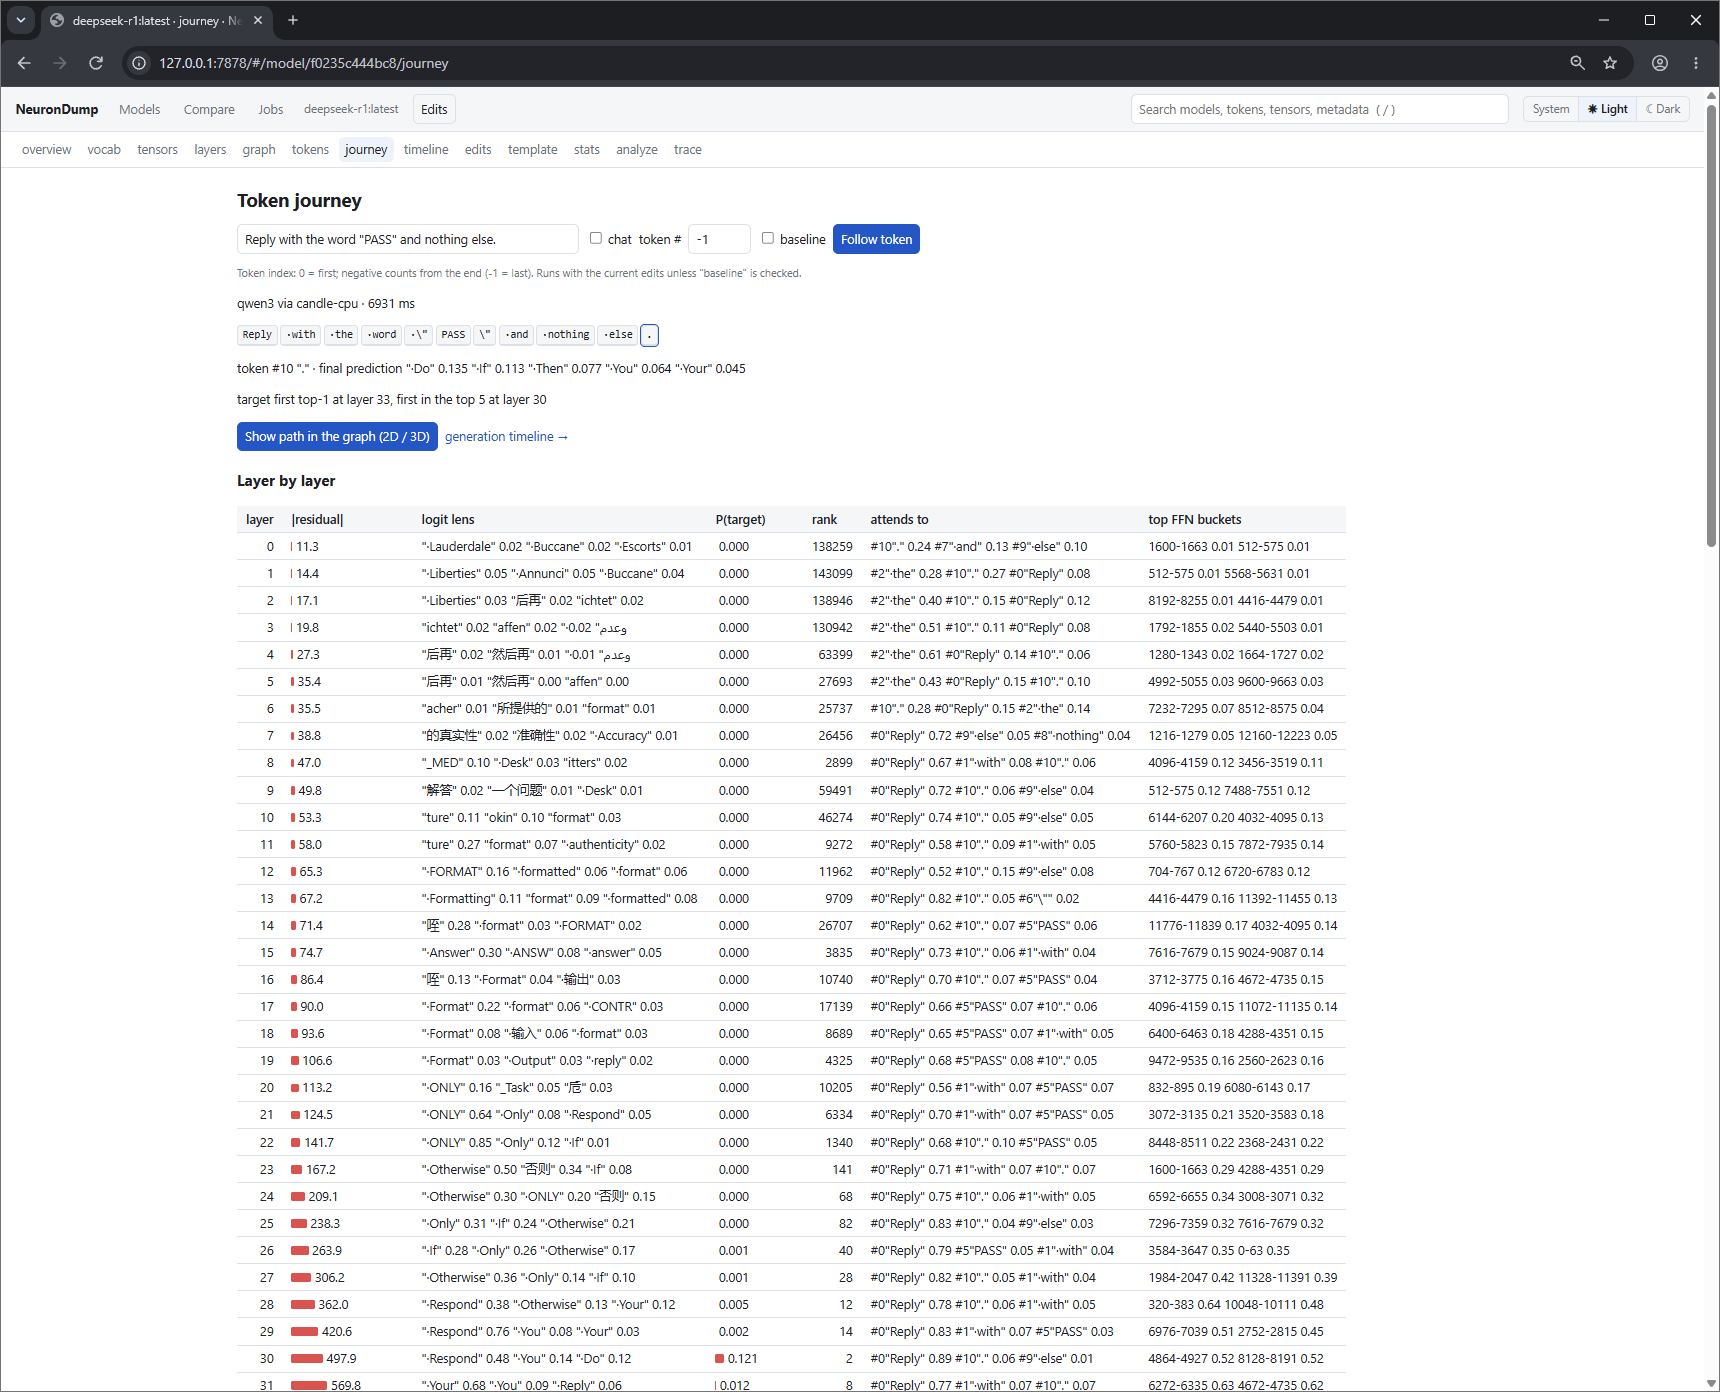
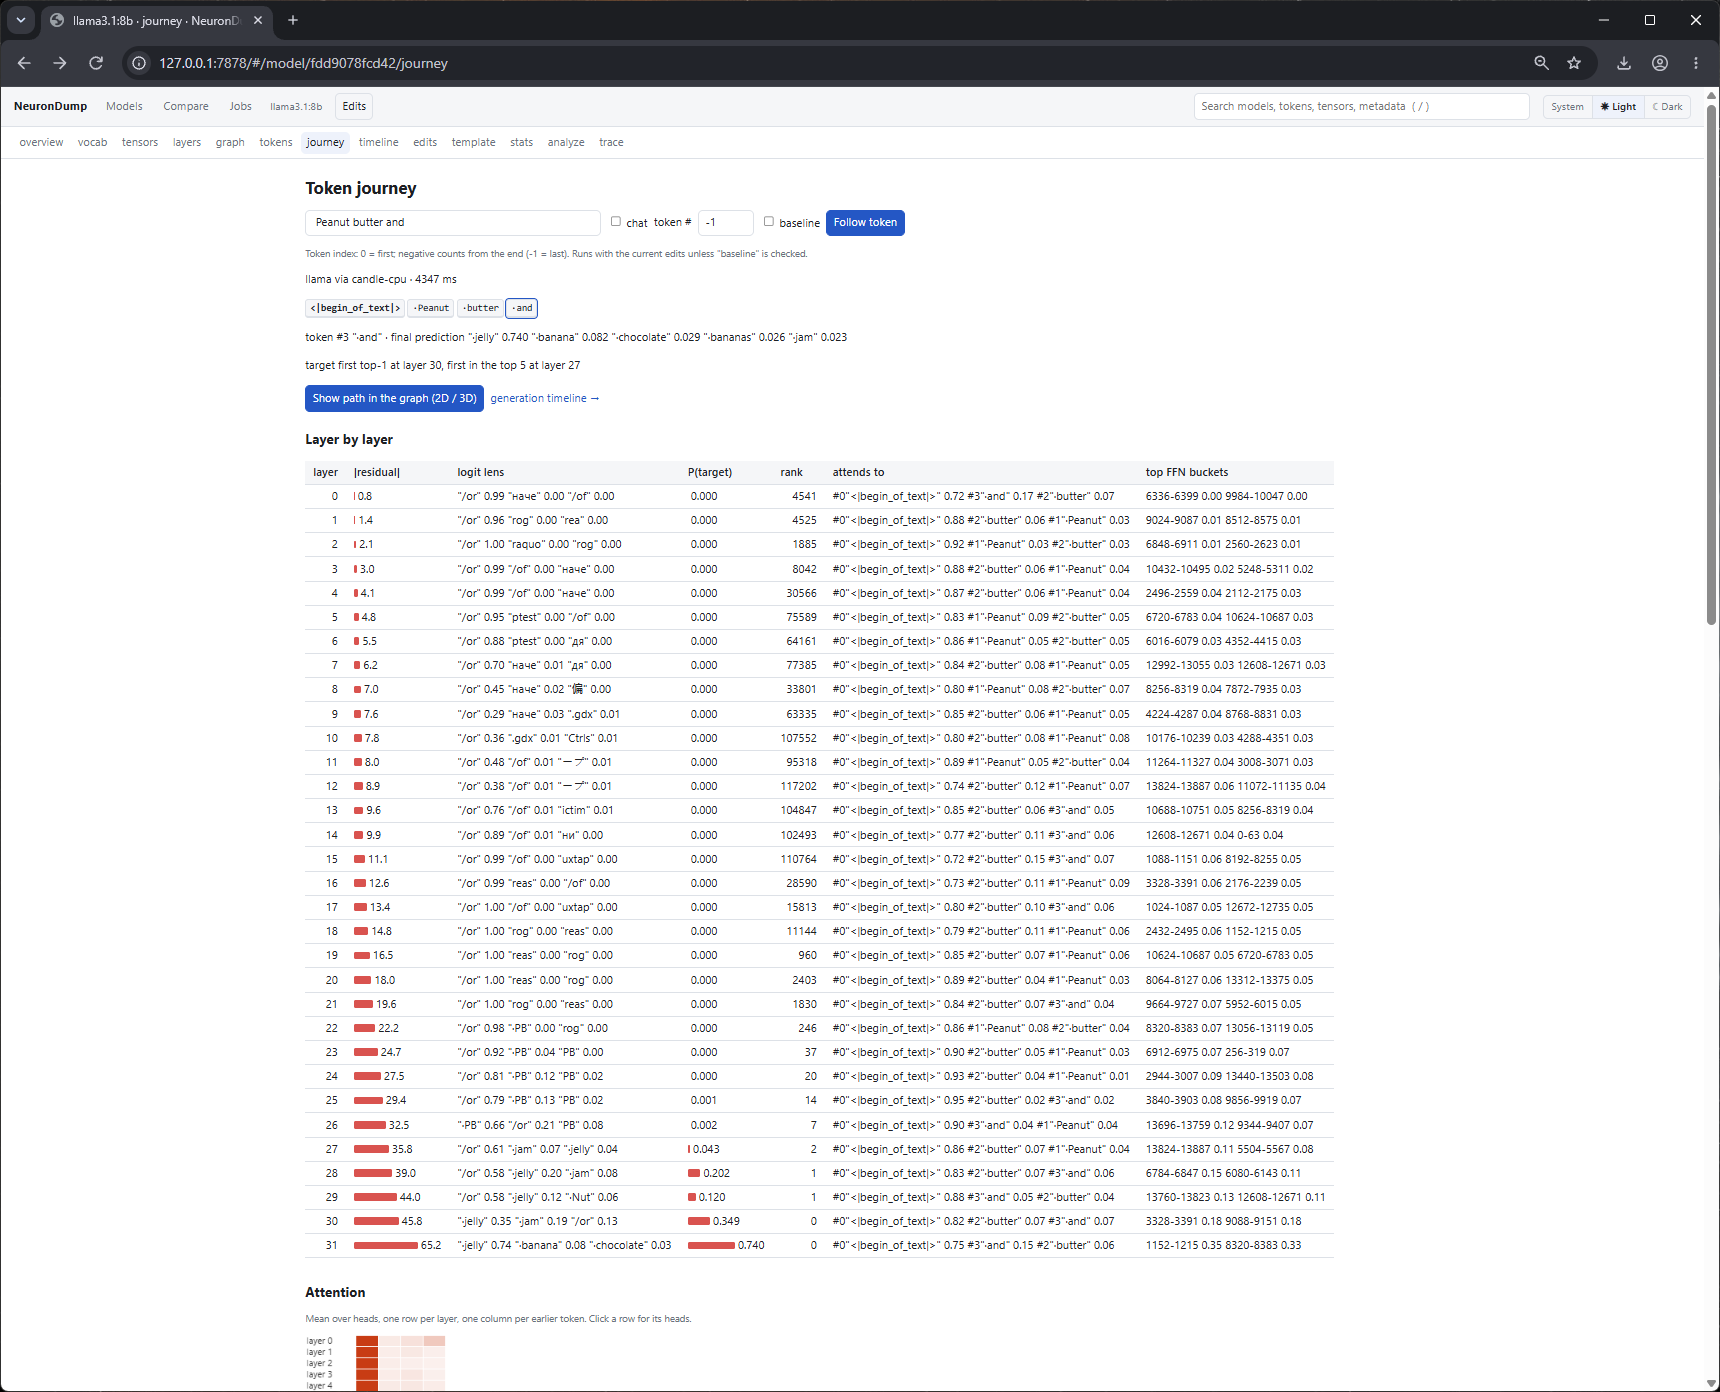
add new screenshots

diff --git a/docs/web-ui.md b/docs/web-ui.md
@@ -105,17 +105,18 @@ Pick a prompt and a token index (`-1` = last; click any chip to switch) and pres
 - Runs with the current edits; tick **baseline** to ignore them. MoE routing and SSM state are not
   measured (no forward pass for those architectures).
 
-![Journey page: the last token of 'Reply with the word "PASS" and nothing else.' through deepseek-r1's
-36 layers](images/model_journey.png)
+![Journey page: the last token of "Peanut butter and" through llama3.1:8b's 32 layers](images/model_journey.png)
 
-The final prediction is `" Do"` 0.135; it is first in the top 5 at layer 30 and top-1 at layer 33.
-The middle layers think about the format of the answer (`" FORMAT"`, `" ONLY"`, `" Otherwise"`,
-`" Respond"`), and from layer 7 on the token attends mostly to the first token, `"Reply"`.
+The final prediction is `" jelly"` 0.740 (then `" banana"` 0.082, `" chocolate"` 0.029); it is first
+in the top 5 at layer 27 and top-1 at layer 30. Up to layer 29 the logit lens reads "and" as
+grammar (`"/or"`, as in "and/or"); `" PB"` shows up from layer 22, and only the last two layers
+switch to the food.
 
 ![Journey page: attention heatmaps and the decision breakdown](images/model_journey2.png)
 
-The heatmaps: every layer from 7 on attends to token 0 (an attention sink); in layer 32, head 15
-(outlined) pushes the decision most. The breakdown: `" Do"` beats `" If"` by 0.182 logits.
+The heatmaps: every layer attends mostly to `<|begin_of_text|>` (an attention sink); in layer 30,
+heads 22, 24, 25 and 26 (outlined) push the decision most. The breakdown: `" jelly"` beats
+`" banana"` by 2.202 logits; head 25 of layer 30 pushes against it (−0.688), head 24 for it (+0.479).
 
 ## Timeline
 
@@ -123,6 +124,13 @@ Generate N tokens (greedy, or with temperature / top-k / top-p / seed). Each ste
 chosen token, its probability and the distribution's entropy as small bars, and the top alternative;
 forced tokens (from a `force` edit) have an orange border. A table lists the same. **Click a step**
 for its decision breakdown (computed on demand, or instantly with **explain**).
+
+![Timeline page: llama3.1:8b generating 12 tokens, with step 11 explained](images/model_timeline.png)
+
+llama3.1:8b on "The Mediterranean Sea is located between" (chat, 12 steps, explain). The two
+uncertain steps stand out by their entropy bar: `" three"` 0.599 against `" Europe"` 0.218, then
+`" Europe"` 0.567 against `" Africa"` 0.414. Step 11 is open: `" Africa"` 0.990 beats `" Asia"` by
+4.627 logits, with the push per layer and the top heads (L24 H2 first).
 
 ## Edits
 
@@ -163,6 +171,17 @@ tokenizer, Ollama settings and the vision projector.
 **trace**: deepseek-r1 on "The name of the star that Earth orbits is". The last column is the logit lens: the answer appears at layer 29 (`"太阳"`, then `" Sun"`).
 
 ![Trace page with the logit lens](images/model_trace.png)
+
+**trace**: llama3.1:8b on the same prompt. `" Sun"` is top-1 from layer 21 to 26, then `" called"`
+takes over; the next token is `" called"` 0.336, `" the"` 0.159, `" Sol"` 0.144.
+
+![Trace page for llama3.1:8b](images/model_trace2.png)
+
+**stats**: qwen2.5-coder:7b, one tensor (`blk.19.attn_norm.weight`: 3,584 F32 values, mean 0.795,
+histogram on a log scale) and the whole model as a job (339 tensors in 7.6 s). The attention biases
+of layer 0 stand out: `blk.0.attn_k.bias` goes from −180 to 188.
+
+![Weight statistics page](images/model_stats.png)
 
 **Compare**: qwen3.8:27b next to qwen3:8b.
 

diff --git a/docs/trace.md b/docs/trace.md
@@ -47,6 +47,12 @@ layer 14 the model has settled on " called" (0.39). The last layer turns that in
 fixed or constant name"): a 1B model does not answer " Sun" here. Larger models do; see
 [What's inside real models](models.md).
 
+llama3.1:8b gets there: `" Sun"` is top-1 from layer 21 (0.45) to layer 26. The last layers then
+prefer `" called"` (0.336, then `" the"` 0.159 and `" Sol"` 0.144), so the model writes "…is called
+the Sun" rather than answering in one word.
+
+![Trace of llama3.1:8b on the same prompt](images/model_trace2.png)
+
 ## One token in depth
 
 `trace` shows the last position. To follow **any** token, see the attention of every head and the
@@ -65,7 +71,7 @@ rank which layers can be removed.
 
 ## Embedding models
 
-For models like `nomic-embed-text`, there is no next token. Instead, trace shows how much each
+For embedding models like `all-minilm`, there is no next token. Instead, trace shows how much each
 input token contributes to the final embedding.
 
 ## Supported architectures

diff --git a/README.md b/README.md
@@ -123,7 +123,7 @@ Tower, city and force layouts are there too. Everything is bundled, so it works 
   perplexity, logit lens, decision breakdown), with **undo / redo / restore all**, toggles, named
   snapshots and a portable `edits.json`. **Bake** writes a new GGUF; the original is never touched.
 
-![Token journey of deepseek-r1: logit lens, residual norm and attention per layer](docs/images/model_journey.png)
+![Token journey of llama3.1:8b on "Peanut butter and": logit lens, residual norm and attention per layer](docs/images/model_journey.png)
 
 ![Attention heatmaps per layer and per head, and the decision breakdown](docs/images/model_journey2.png)
 

diff --git a/docs/cli.md b/docs/cli.md
@@ -225,7 +225,7 @@ neurondump[llama3.2:1b]> layer 3
 neurondump[llama3.2:1b]> vocab Rome --limit 5
 neurondump[llama3.2:1b]> stats &          # & = run in the background
 neurondump[llama3.2:1b]> jobs
-neurondump[llama3.2:1b]> use nomic-embed-text
+neurondump[llama3.2:1b]> use qwen2.5-coder:7b
 ```
 
 | Command | |
